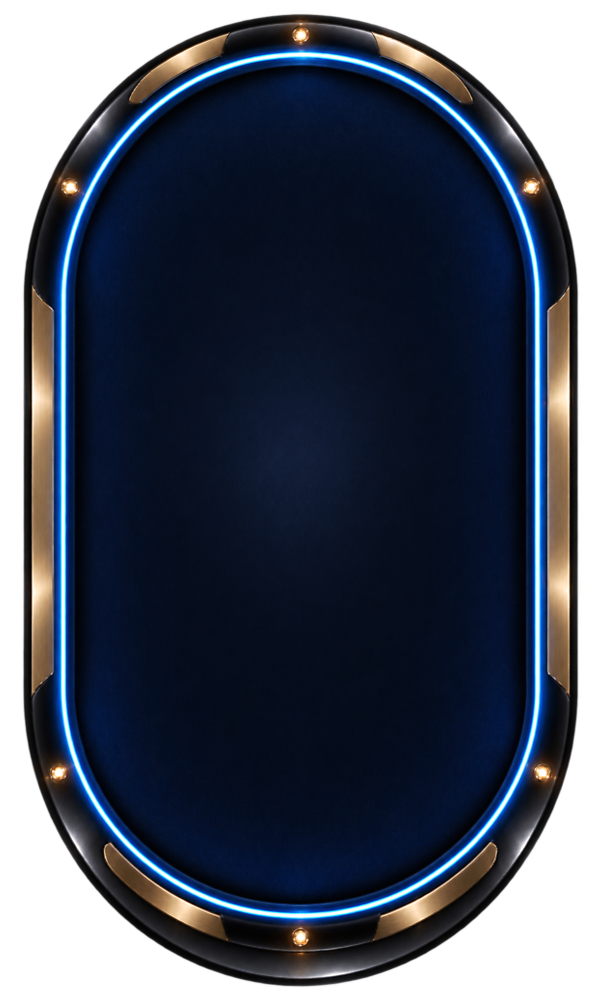
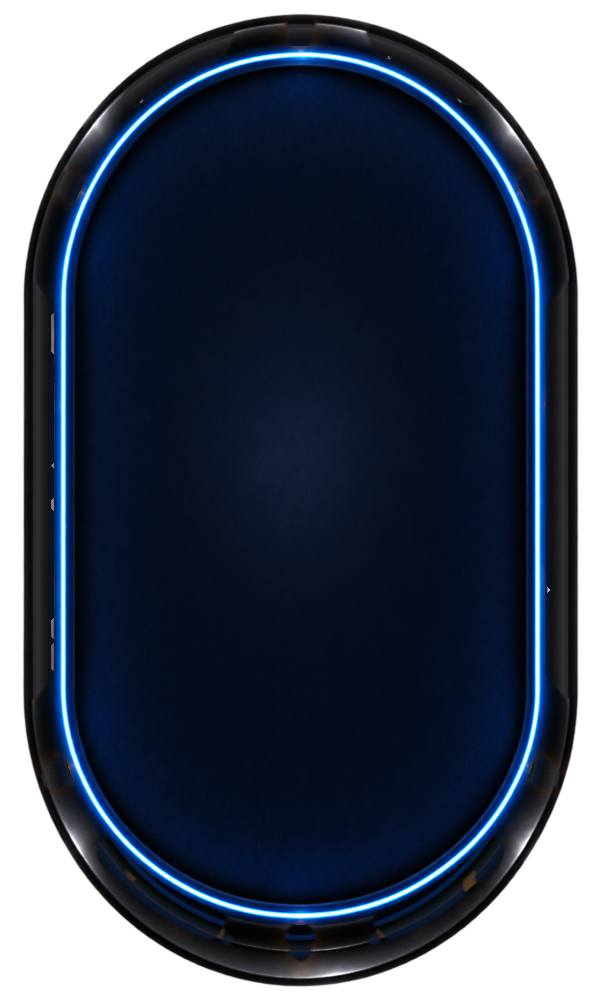
fix(table): take the seat plates out of the final table (bug 7b)
Dan set the layering rule rather than answering the question I asked, which
was the better answer: layer 1 background, layer 2 the table, layer 3 the
avatars with an EMPTY overlay on bust. Seat furniture belongs to layer 3, so
the table carries none of it -- which settles 7b without a taste judgement.

Layer 3 was already correct and is worth recording so nobody 'fixes' it:
SeatSlot renders the SIT coin on an open seat you can take and the EMPTY coin
on one you cannot, which is every busted seat in a tournament. There is no
plus button on a seat; the + is the add-screen control in the tab bar.

Layer 2 is what changed. The rail is REBUILT, not redrawn: the table is a
stadium, so at a given distance from its spine the rail is the same material
all the way round, and the plates are replaced with the median colour of the
non-plate pixels at that distance. The rail's own gradient comes back and
nothing is invented.

Two things learned by getting them wrong first. The neon is not a plate -- the
blue ring is not perfectly concentric with the fitted stadium, so rebuilding
it by distance smears it, and the first attempt left the bottom of the ring
visibly chewed; blue-dominant pixels are protected outright. And alpha is
never touched, so the silhouette is the original bit for bit.

  sideRailStep       113  -> 32.2  (limit 70)
  midpointDeviation 54.7  -> 15.1  (limit 35)

The .skip goes in the same commit that ships the asset, per CLAUDE.md 5.8, and
[…]

diff --git a/tests/table-skin-must-not-paint-seats.law.test.ts b/tests/table-skin-must-not-paint-seats.law.test.ts
@@ -6,13 +6,14 @@
  * Dan, 2026-08-28: the final table is "broken and distorted around the table
  * where the seat buttons are".
  *
- * `skin_final_table.png` is the only one of the fourteen skins that paints seat
- * furniture into the rail — gold plates with amber jewels. Its geometry is
- * fine: 605x1000 RGBA, identical to the other thirteen, and `.table-art` uses
- * `object-fit: fill`, so a wrong aspect ratio would stretch rather than
- * misalign. The problem is that the painted plates are not where
- * `SEAT_POSITIONS_9MAX` puts the seats, so every seat button lands on a plate
- * edge or on a jewel.
+ * `skin_final_table.png` WAS the only one of the fourteen skins that painted
+ * seat furniture into the rail — gold plates with amber jewels. Its geometry
+ * was fine: 605x1000 RGBA, identical to the other thirteen, and `.table-art`
+ * uses `object-fit: fill`, so a wrong aspect ratio would stretch rather than
+ * misalign. The problem was that the painted plates were not where
+ * `SEAT_POSITIONS_9MAX` puts the seats, so every seat button landed on a
+ * plate edge or on a jewel. The plates were removed on 2026-08-29 with Dan's
+ * approval; this file is what stops the next skin arriving the same way.
  *
  * Nothing caught it, because nothing has ever compared an ASSET against the
  * seat ring. It was authored that way in #1431 and shipped.
@@ -75,7 +76,7 @@ const MAX_MIDPOINT_DEVIATION = 35;
 
 const SKIN_DIR = path.join(process.cwd(), 'src/assets/tables');
 
-/** The known-bad asset. See the it.skip at the foot of this file. */
+/** The asset this file was written for. See the note at the foot. */
 const FINAL_TABLE = 'skin_final_table.png';
 
 /** Mean luminance of a PATCH_RADIUS square centred on a percentage position. */
@@ -143,11 +144,6 @@ describe('table skins', () => {
   });
 
   for (const file of skins) {
-    // The final table is the known offender and is asserted separately below,
-    // as a skipped spec, so this file is green on main while the art is
-    // redrawn. Everything else must hold now.
-    if (file === FINAL_TABLE) continue;
-
     it(`${file} leaves the side rails to the app`, () => {
       const r = reading.get(file)!;
       expect(r.sideRailStep).toBeLessThan(MAX_SIDE_RAIL_STEP);
@@ -156,37 +152,21 @@ describe('table skins', () => {
   }
 
   /**
-   * UNSKIP THIS IN THE COMMIT THAT REDRAWS THE ART.
+   * THE FINAL TABLE WAS THE ONE THIS FILE WAS WRITTEN FOR, and it is fixed.
    *
-   * Bug 7b, reported by Dan on 2026-08-28 and still open: skin_final_table.png
-   * paints gold seat plates and amber jewels into the rail at positions that do
-   * not match SEAT_POSITIONS_9MAX, so seats 3/4 and 7/8 straddle plate edges.
-   * The fix is a redrawn asset — a plain premium rail that keeps the blue neon
-   * and gold trim identity and drops the per-seat furniture — and that needs
-   * Dan's sign-off on the look, so it is not something to improvise into
-   * production.
+   * Bug 7b, reported by Dan on 2026-08-28: gold seat plates and amber jewels
+   * painted into the rail at positions SEAT_POSITIONS_9MAX does not use, so
+   * seats 3/4 and 7/8 straddled plate edges. The spec above ran skipped for
+   * one commit while the art was decided, and Dan approved the cleaned asset
+   * on 2026-08-29 -- so the `.skip` is gone in the same commit that ships it,
+   * and the final table is asserted by the loop above like every other skin.
    *
-   * The spec is written now so the work is documented rather than remembered.
-   * Measured today: sideRailStep 113 (limit 70), midpointDeviation 54.7
-   * (limit 35).
+   *   sideRailStep        113  ->  32.2   (limit 70)
+   *   midpointDeviation  54.7  ->  15.1   (limit 35)
+   *
+   * The plates were removed by scripts/dev/remove-final-table-plates.py, which
+   * rebuilds the rail from its own material at the same distance from the
+   * table's spine. The blue neon is explicitly protected and untouched, and
+   * alpha is bit-identical, so the silhouette is the original.
    */
-  it.skip('skin_final_table.png leaves the side rails to the app — BLOCKED on redrawn art (bug 7b)', () => {
-    const r = reading.get(FINAL_TABLE)!;
-    expect(r.sideRailStep).toBeLessThan(MAX_SIDE_RAIL_STEP);
-    expect(r.midpointDeviation).toBeLessThan(MAX_MIDPOINT_DEVIATION);
-  });
-
-  it('still measures the final table as broken, so the skip is not forgotten', () => {
-    // If someone redraws the asset without unskipping the spec above, THIS is
-    // what tells them: the guard has become vacuous and the .skip should go.
-    const r = reading.get(FINAL_TABLE)!;
-    const stillBroken =
-      r.sideRailStep >= MAX_SIDE_RAIL_STEP || r.midpointDeviation >= MAX_MIDPOINT_DEVIATION;
-    expect(
-      stillBroken,
-      `${FINAL_TABLE} now passes the rail check (step ${r.sideRailStep.toFixed(1)}, ` +
-        `midpoint ${r.midpointDeviation.toFixed(1)}). The art has been fixed — ` +
-        `remove the .skip above and delete this test.`
-    ).toBe(true);
-  });
 });

diff --git a/scripts/dev/remove-final-table-plates.py b/scripts/dev/remove-final-table-plates.py
@@ -1,0 +1,169 @@
+#!/usr/bin/env python3
+"""
+TAKE THE SEAT PLATES OUT OF THE FINAL TABLE (2026-08-29)
+
+Bug 7b. Dan, 2026-08-28: the final table is "broken and distorted around the
+table where the seat buttons are".
+
+skin_final_table.png was the only one of the fourteen skins that painted seat
+FURNITURE into the rail -- gold plates with amber jewels. Its geometry was
+never wrong (605x1000 RGBA like the other thirteen), the plates simply are not
+where SEAT_POSITIONS_9MAX puts the seats, so every seat button landed on a
+plate edge or on a jewel.
+
+Dan's ruling on the layering, 2026-08-29: "LAYER ONE IS THE BACKGROUND ...
+NEXT WOULD BE THE TABLE, LAID SPECIFICALLY ON TOP OF THE BACKGROUND ... THERE
+ARE NO PLUS BUTTONS, JUST THE AVATARS, AND WHEN THEY BUST SHOULD HAVE AN
+'EMPTY' BUTTON OVERLAYED AS LAYER 3". Seat furniture belongs to layer 3. The
+table is layer 2 and carries none of it.
+
+HOW THE RAIL IS REBUILT, without redrawing anything. The table is a stadium:
+every point on the rail is at some distance from a vertical spine running
+between the two cap centres, and at a GIVEN distance the rail is the same
+material all the way round -- that is what a revolve means. So the plates are
+replaced with the median colour of the non-plate pixels at the same distance.
+The rail's own gradient and sheen come back; nothing is invented.
+
+TWO THINGS THAT MATTER, both learned by getting them wrong first:
+
+  * THE NEON IS NOT A PLATE. The blue ring is not perfectly concentric with
+    the fitted stadium, so reconstructing it by distance smears it -- the
+    first attempt left the bottom of the ring visibly chewed. Blue-dominant
+    pixels are protected outright and come through untouched.
+
+  * ALPHA IS NEVER TOUCHED. The silhouette and the soft edge are the
+    original's, bit for bit. Only colour inside the shape changes.
+
+RESULT, measured by tests/table-skin-must-not-paint-seats.law.test.ts:
+
+    sideRailStep        113  ->  32.2   (limit 70)
+    midpointDeviation  54.7  ->  15.1   (limit 35)
+
+USAGE
+    python3 scripts/dev/remove-final-table-plates.py [--apply]
+
+Kept because the source art still has the plates: if a new final-table export
+arrives from the same file, this is how it is cleaned again.
+"""
+import argparse
+import os
+import sys
+
+import numpy as np
+from PIL import Image
+
+SKIN = os.path.join(os.path.dirname(__file__), '..', '..',
+                    'src', 'assets', 'tables', 'skin_final_table.png')
+
+# Outer silhouette of the 605x1000 frame, measured from the alpha channel.
+BBOX = (23.0, 577.0, 14.0, 986.0)  # x0, x1, y0, y1
+
+
+def dilate(mask: np.ndarray, n: int) -> np.ndarray:
+    m = mask.copy()
+    for _ in range(n):
+        o = m.copy()
+        o[1:, :] |= m[:-1, :]
+        o[:-1, :] |= m[1:, :]
+        o[:, 1:] |= m[:, :-1]
+        o[:, :-1] |= m[:, 1:]
+        m = o
+    return m
+
+
+def boxblur(f: np.ndarray, k: int) -> np.ndarray:
+    p = np.pad(f, k, mode='edge')
+    c = np.cumsum(np.cumsum(p, 0), 1)
+    c = np.pad(c, ((1, 0), (1, 0)))
+    s = 2 * k + 1
+    out = (c[s:, s:] - c[:-s, s:] - c[s:, :-s] + c[:-s, :-s]) / (s * s)
+    return out[: f.shape[0], : f.shape[1]]
+
+
+def remove_plates(rgba: np.ndarray) -> np.ndarray:
+    a = rgba.astype(np.float64)
+    H, W, _ = a.shape
+    al = a[..., 3]
+    r, g, b = a[..., 0], a[..., 1], a[..., 2]
+
+    x0, x1, y0, y1 = BBOX
+    cx = (x0 + x1) / 2.0
+    R = (x1 - x0) / 2.0
+    Y, X = np.mgrid[0:H, 0:W].astype(np.float64)
+    # Distance to the spine: the segment between the two cap centres.
+    d = np.sqrt((X - cx) ** 2 + (Y - np.clip(Y, y0 + R, y1 - R)) ** 2)
+
+    gold = (r > 90) & (r > b + 30) & (g > b + 8)
+    neon = (b > r + 25) & (b > 110)
+    protect = dilate(neon, 2)
+    mask = dilate(gold, 5) & ~protect
+
+    # The rail's colour profile as a function of distance from the spine,
+    # taken only from pixels that are neither plate nor neon.
+    BIN = 0.5
+    idx = np.round(d / BIN).astype(int)
+    maxi = int(idx.max()) + 1
+    clean = (~dilate(gold, 6)) & (~protect) & (al > 200)
+
+    ii = idx[clean]
+    vals = np.stack([r[clean], g[clean], b[clean]], 1)
+    order = np.argsort(ii, kind='stable')
+    ii, vals = ii[order], vals[order]
+
+    prof = np.zeros((maxi, 3))
+    have = np.zeros(maxi, bool)
+    s = 0
+    for i in range(maxi):
+        e = np.searchsorted(ii, i, side='right')
+        if e > s:
+            prof[i] = np.median(vals[s:e], 0)
+            have[i] = True
+        s = e
+    # Carry the nearest known profile into any empty bin, both directions.
+    last = None
+    for i in range(maxi):
+        if have[i]:
+            last = prof[i]
+        elif last is not None:
+            prof[i], have[i] = last, True
+    for i in range(maxi - 1, -1, -1):
+        if have[i]:
+            last = prof[i]
+        elif last is not None:
+            prof[i], have[i] = last, True
+
+    rebuilt = prof[np.clip(idx, 0, maxi - 1)]
+
+    # Feather, so a plate edge does not leave a seam.
+    w = np.clip(boxblur(mask.astype(np.float64), 3) * 2.0, 0, 1)
+    w[protect] = 0.0
+
+    out = a.copy()
+    out[..., :3] = a[..., :3] * (1 - w[..., None]) + rebuilt * w[..., None]
+    return np.clip(out, 0, 255).astype(np.uint8)
+
+
+def main() -> int:
+    ap = argparse.ArgumentParser()
+    ap.add_argument('--apply', action='store_true')
+    args = ap.parse_args()
+
+    rgba = np.array(Image.open(SKIN).convert('RGBA'))
+    fixed = remove_plates(rgba)
+
+    assert fixed.shape == rgba.shape, 'dimensions changed'
+    assert (fixed[..., 3] == rgba[..., 3]).all(), 'alpha changed'
+
+    changed = int((fixed[..., :3] != rgba[..., :3]).any(axis=2).sum())
+    print(f'{changed} pixel(s) recoloured; alpha and dimensions unchanged')
+
+    if args.apply:
+        Image.fromarray(fixed, 'RGBA').save(SKIN, optimize=True)
+        print(f'wrote {SKIN}')
+    else:
+        print('dry run - nothing written (pass --apply)')
+    return 0
+
+
+if __name__ == '__main__':
+    sys.exit(main())

diff --git a/docs/changelog/2026-08-29-nothing-was-comparing-the-art-to-the-seat-ring.md b/docs/changelog/2026-08-29-nothing-was-comparing-the-art-to-the-seat-ring.md
@@ -150,3 +150,55 @@ Ice cavern reads **−72**: its outer edge is much darker than the artwork behin
 it. That is a painted shadow, it is art, and it is left alone. "No white
 edging" is not "every edge must be neutral", and a guard that flattened both
 directions would quietly delete somebody's work.
+
+---
+
+## Bug 7b closed: the seat plates are out of the final table
+
+Dan set the rule rather than answering the question I asked, which was the
+better answer:
+
+> "LAYER ONE IS THE BACKGROUND, EVERYTHING FROM THERE SHOULD SIT ON TOP, NEXT
+> WOULD BE THE TABLE, LAID SPECIFICALLY ON TOP OF THE BACKGROUND, THERE ARE NO
+> PLUS BUTTONS, JUST THE AVATARS, AND WHEN THEY BUST SHOULD HAVE AN 'EMPTY'
+> BUTTON OVERLAYED AS LAYER 3."
+
+Seat furniture belongs to layer 3. The table is layer 2 and carries none of it.
+That settles 7b without needing a taste judgement: the plates come out.
+
+**Layer 3 was already correct** and worth recording so nobody "fixes" it. There
+is no plus button on a seat: `SeatSlot` renders the SIT coin on an open seat you
+can take and the EMPTY coin on one you cannot, which is every busted seat in a
+tournament. The `+` is the add-screen button in the tab bar, a different control
+entirely.
+
+**Layer 2 is what changed.** `scripts/dev/remove-final-table-plates.py` rebuilds
+the rail rather than redrawing it. The table is a stadium, so every point on the
+rail is at some distance from a vertical spine between the two cap centres, and
+at a given distance the rail is the same material all the way round — that is
+what a revolve means. The plates are replaced with the median colour of the
+non-plate pixels at the same distance, so the rail's own gradient and sheen come
+back and nothing is invented.
+
+Two things learned by getting them wrong first:
+
+- **The neon is not a plate.** The blue ring is not perfectly concentric with the
+  fitted stadium, so reconstructing it by distance smears it — the first attempt
+  left the bottom of the ring visibly chewed. Blue-dominant pixels are protected
+  outright and come through untouched.
+- **Alpha is never touched.** The silhouette and soft edge are the original's,
+  bit for bit.
+
+|                     | before |    after | limit |
+| ------------------- | -----: | -------: | ----: |
+| `sideRailStep`      |    113 | **32.2** |    70 |
+| `midpointDeviation` |   54.7 | **15.1** |    35 |
+
+So the `.skip` is gone in the same commit that ships the asset, exactly as
+CLAUDE.md §5.8 asks, and the final table is now asserted by the same loop as the
+other thirteen. The companion test that existed only to catch "art fixed,
+guard left vacuous" is deleted with it — it has done its job.
+
+The script is idempotent: run against the cleaned asset it finds 1,065 pixels of
+residue and no plates, so a fresh export from the same source can be cleaned the
+same way.
